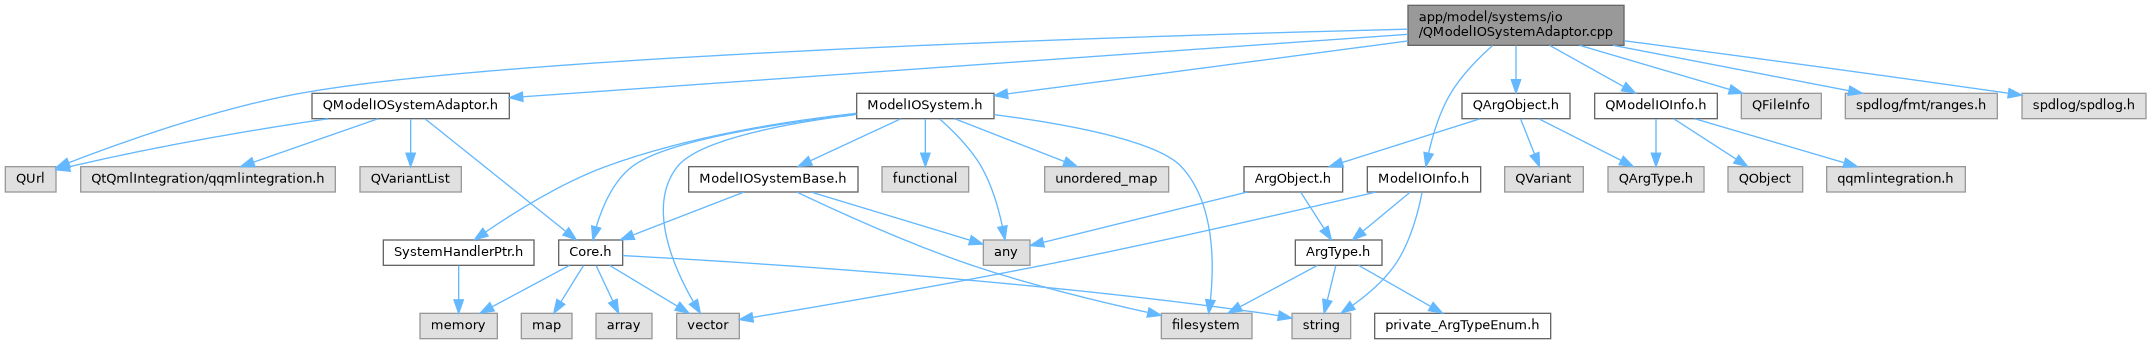
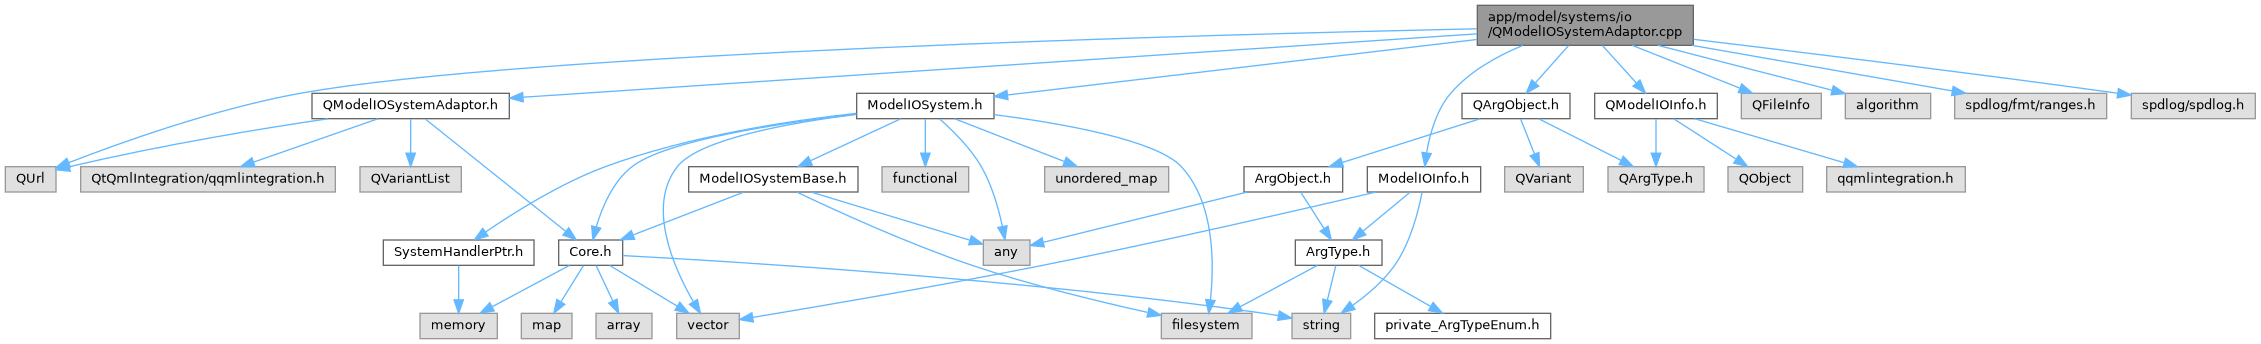
Deploying to gh-pages from @ a-ciue/PreCess@4a4f4f4fb84f4836a4cb694d73c2f9e57257ba9e 🚀

Changed region(s): [[0.0, 0.0, 1.0, 0.9884], [0.1869, 0.1453, 0.3738, 0.2326], [0.2803, 0.2326, 0.3426, 0.2616]]

diff --git a/QModelIOSystemAdaptor_8h_source.html b/QModelIOSystemAdaptor_8h_source.html
@@ -109,28 +109,31 @@ $(function() {
 <div class="line"><a id="l00053" name="l00053"></a><span class="lineno"><a class="line" href="classsystems_1_1io_1_1QModelIOSystemAdaptor.html#a960ba5eb69c3879b5f4e0a6397d67059">   53</a></span>    <span class="keywordtype">void</span> <a class="code hl_signal" href="classsystems_1_1io_1_1QModelIOSystemAdaptor.html#a960ba5eb69c3879b5f4e0a6397d67059">dialogNameFiltersChanged</a>();</div>
 <div class="line"><a id="l00054" name="l00054"></a><span class="lineno">   54</span> </div>
 <div class="line"><a id="l00055" name="l00055"></a><span class="lineno">   55</span>private:</div>
-<div class="line"><a id="l00061" name="l00061"></a><span class="lineno">   61</span>    QString <a class="code hl_function" href="classsystems_1_1io_1_1QModelIOSystemAdaptor.html#ab5e4bc9dea7642544d339bf28b837a66">resolveFileTypeBySuffix</a>(const QString&amp; suffix) const;</div>
-<div class="line"><a id="l00062" name="l00062"></a><span class="lineno">   62</span> </div>
-<div class="line"><a id="l00063" name="l00063"></a><span class="lineno"><a class="line" href="classsystems_1_1io_1_1QModelIOSystemAdaptor.html#a3ea89b9e3f0d4f33bdedbc06904a23b3">   63</a></span>    <a class="code hl_class" href="classsystems_1_1io_1_1ModelIOSystem.html">ModelIOSystem</a>* <a class="code hl_variable" href="classsystems_1_1io_1_1QModelIOSystemAdaptor.html#a3ea89b9e3f0d4f33bdedbc06904a23b3">io_system_</a>; <span class="comment">//&gt; 文件系统的引用</span></div>
-<div class="line"><a id="l00064" name="l00064"></a><span class="lineno">   64</span>};</div>
+<div class="line"><a id="l00065" name="l00065"></a><span class="lineno">   65</span>    QString <a class="code hl_function" href="classsystems_1_1io_1_1QModelIOSystemAdaptor.html#a88ef0138fba2a60ee2ebe85b6c470d9f">resolveFileType</a>(const QString&amp; unique_name, const QUrl&amp; url) const;</div>
+<div class="line"><a id="l00066" name="l00066"></a><span class="lineno">   66</span></div>
+<div class="line"><a id="l00072" name="l00072"></a><span class="lineno">   72</span>    QString <a class="code hl_function" href="classsystems_1_1io_1_1QModelIOSystemAdaptor.html#ab5e4bc9dea7642544d339bf28b837a66">resolveFileTypeBySuffix</a>(const QString&amp; suffix) const;</div>
+<div class="line"><a id="l00073" name="l00073"></a><span class="lineno">   73</span> </div>
+<div class="line"><a id="l00074" name="l00074"></a><span class="lineno"><a class="line" href="classsystems_1_1io_1_1QModelIOSystemAdaptor.html#a3ea89b9e3f0d4f33bdedbc06904a23b3">   74</a></span>    <a class="code hl_class" href="classsystems_1_1io_1_1ModelIOSystem.html">ModelIOSystem</a>* <a class="code hl_variable" href="classsystems_1_1io_1_1QModelIOSystemAdaptor.html#a3ea89b9e3f0d4f33bdedbc06904a23b3">io_system_</a>; <span class="comment">//&gt; 文件系统的引用</span></div>
+<div class="line"><a id="l00075" name="l00075"></a><span class="lineno">   75</span>};</div>
 </div>
-<div class="line"><a id="l00065" name="l00065"></a><span class="lineno">   65</span>}</div>
-<div class="line"><a id="l00066" name="l00066"></a><span class="lineno">   66</span> </div>
-<div class="line"><a id="l00067" name="l00067"></a><span class="lineno">   67</span><span class="preprocessor">#endif</span></div>
+<div class="line"><a id="l00076" name="l00076"></a><span class="lineno">   76</span>}</div>
+<div class="line"><a id="l00077" name="l00077"></a><span class="lineno">   77</span> </div>
+<div class="line"><a id="l00078" name="l00078"></a><span class="lineno">   78</span><span class="preprocessor">#endif</span></div>
 <div class="ttc" id="aCore_8h_html"><div class="ttname"><a href="Core_8h.html">Core.h</a></div></div>
 <div class="ttc" id="aCore_8h_html_a1673229bf7fec9388ac2a829a52d69b3"><div class="ttname"><a href="Core_8h.html#a1673229bf7fec9388ac2a829a52d69b3">Index</a></div><div class="ttdeci">int Index</div><div class="ttdoc">基本索引类型定义</div><div class="ttdef"><b>定义</b> Core.h:48</div></div>
 <div class="ttc" id="aclassQArgObject_html"><div class="ttname"><a href="classQArgObject.html">QArgObject</a></div><div class="ttdoc">QML中使用的参数类型实例对象值，用于参数列表中的model。是对应QArgType描述的参数类型的变量实例，封装了QArgType参数类型和参数值QVariant</div><div class="ttdef"><b>定义</b> QArgObject.h:11</div></div>
 <div class="ttc" id="aclasssystems_1_1io_1_1ModelIOSystem_html"><div class="ttname"><a href="classsystems_1_1io_1_1ModelIOSystem.html">systems::io::ModelIOSystem</a></div><div class="ttdoc">模型IO系统，每种文件格式只能注册一个处理器</div><div class="ttdef"><b>定义</b> ModelIOSystem.h:31</div></div>
 <div class="ttc" id="aclasssystems_1_1io_1_1QModelIOInfo_html"><div class="ttname"><a href="classsystems_1_1io_1_1QModelIOInfo.html">systems::io::QModelIOInfo</a></div><div class="ttdoc">向Qml暴露的受支持的文件类型信息，Qml据此提示用户以文件类型、拓展名</div><div class="ttdef"><b>定义</b> QModelIOInfo.h:13</div></div>
 <div class="ttc" id="aclasssystems_1_1io_1_1QModelIOSystemAdaptor_html_a38abf00440444a743c56ba8eefdeef0d"><div class="ttname"><a href="classsystems_1_1io_1_1QModelIOSystemAdaptor.html#a38abf00440444a743c56ba8eefdeef0d">systems::io::QModelIOSystemAdaptor::dialogNameFilters</a></div><div class="ttdeci">QML_ELEMENTQStringList dialogNameFilters</div><div class="ttdef"><b>定义</b> QModelIOSystemAdaptor.h:21</div></div>
-<div class="ttc" id="aclasssystems_1_1io_1_1QModelIOSystemAdaptor_html_a3ea89b9e3f0d4f33bdedbc06904a23b3"><div class="ttname"><a href="classsystems_1_1io_1_1QModelIOSystemAdaptor.html#a3ea89b9e3f0d4f33bdedbc06904a23b3">systems::io::QModelIOSystemAdaptor::io_system_</a></div><div class="ttdeci">ModelIOSystem * io_system_</div><div class="ttdef"><b>定义</b> QModelIOSystemAdaptor.h:63</div></div>
-<div class="ttc" id="aclasssystems_1_1io_1_1QModelIOSystemAdaptor_html_a639e3e00af91eb3419bd7139a5ca6702"><div class="ttname"><a href="classsystems_1_1io_1_1QModelIOSystemAdaptor.html#a639e3e00af91eb3419bd7139a5ca6702">systems::io::QModelIOSystemAdaptor::read</a></div><div class="ttdeci">Q_INVOKABLE bool read(const QString &amp;unique_name, const QUrl &amp;url, const QVariantList &amp;args)</div><div class="ttdoc">按照给定文件类型，读取指定路径的文件</div><div class="ttdef"><b>定义</b> QModelIOSystemAdaptor.cpp:21</div></div>
-<div class="ttc" id="aclasssystems_1_1io_1_1QModelIOSystemAdaptor_html_a842b3499a2004d3fc3b67143a85364ce"><div class="ttname"><a href="classsystems_1_1io_1_1QModelIOSystemAdaptor.html#a842b3499a2004d3fc3b67143a85364ce">systems::io::QModelIOSystemAdaptor::QModelIOSystemAdaptor</a></div><div class="ttdeci">QModelIOSystemAdaptor(ModelIOSystem &amp;io_system)</div><div class="ttdef"><b>定义</b> QModelIOSystemAdaptor.cpp:13</div></div>
-<div class="ttc" id="aclasssystems_1_1io_1_1QModelIOSystemAdaptor_html_a87026b27812abe6703ab8f822d856b62"><div class="ttname"><a href="classsystems_1_1io_1_1QModelIOSystemAdaptor.html#a87026b27812abe6703ab8f822d856b62">systems::io::QModelIOSystemAdaptor::write</a></div><div class="ttdeci">Q_INVOKABLE bool write(const QString &amp;unique_name, Index model, const QUrl &amp;url, const QVariantList &amp;args)</div><div class="ttdoc">按照给定文件类型，写出指定模型到指定路径的文件</div><div class="ttdef"><b>定义</b> QModelIOSystemAdaptor.cpp:59</div></div>
+<div class="ttc" id="aclasssystems_1_1io_1_1QModelIOSystemAdaptor_html_a3ea89b9e3f0d4f33bdedbc06904a23b3"><div class="ttname"><a href="classsystems_1_1io_1_1QModelIOSystemAdaptor.html#a3ea89b9e3f0d4f33bdedbc06904a23b3">systems::io::QModelIOSystemAdaptor::io_system_</a></div><div class="ttdeci">ModelIOSystem * io_system_</div><div class="ttdef"><b>定义</b> QModelIOSystemAdaptor.h:74</div></div>
+<div class="ttc" id="aclasssystems_1_1io_1_1QModelIOSystemAdaptor_html_a639e3e00af91eb3419bd7139a5ca6702"><div class="ttname"><a href="classsystems_1_1io_1_1QModelIOSystemAdaptor.html#a639e3e00af91eb3419bd7139a5ca6702">systems::io::QModelIOSystemAdaptor::read</a></div><div class="ttdeci">Q_INVOKABLE bool read(const QString &amp;unique_name, const QUrl &amp;url, const QVariantList &amp;args)</div><div class="ttdoc">按照给定文件类型，读取指定路径的文件</div><div class="ttdef"><b>定义</b> QModelIOSystemAdaptor.cpp:22</div></div>
+<div class="ttc" id="aclasssystems_1_1io_1_1QModelIOSystemAdaptor_html_a842b3499a2004d3fc3b67143a85364ce"><div class="ttname"><a href="classsystems_1_1io_1_1QModelIOSystemAdaptor.html#a842b3499a2004d3fc3b67143a85364ce">systems::io::QModelIOSystemAdaptor::QModelIOSystemAdaptor</a></div><div class="ttdeci">QModelIOSystemAdaptor(ModelIOSystem &amp;io_system)</div><div class="ttdef"><b>定义</b> QModelIOSystemAdaptor.cpp:14</div></div>
+<div class="ttc" id="aclasssystems_1_1io_1_1QModelIOSystemAdaptor_html_a87026b27812abe6703ab8f822d856b62"><div class="ttname"><a href="classsystems_1_1io_1_1QModelIOSystemAdaptor.html#a87026b27812abe6703ab8f822d856b62">systems::io::QModelIOSystemAdaptor::write</a></div><div class="ttdeci">Q_INVOKABLE bool write(const QString &amp;unique_name, Index model, const QUrl &amp;url, const QVariantList &amp;args)</div><div class="ttdoc">按照给定文件类型，写出指定模型到指定路径的文件</div><div class="ttdef"><b>定义</b> QModelIOSystemAdaptor.cpp:45</div></div>
+<div class="ttc" id="aclasssystems_1_1io_1_1QModelIOSystemAdaptor_html_a88ef0138fba2a60ee2ebe85b6c470d9f"><div class="ttname"><a href="classsystems_1_1io_1_1QModelIOSystemAdaptor.html#a88ef0138fba2a60ee2ebe85b6c470d9f">systems::io::QModelIOSystemAdaptor::resolveFileType</a></div><div class="ttdeci">QString resolveFileType(const QString &amp;unique_name, const QUrl &amp;url) const</div><div class="ttdoc">解析出实际使用的文件类型注册名：注册名优先，未指定或未知时按文件扩展名回退</div><div class="ttdef"><b>定义</b> QModelIOSystemAdaptor.cpp:114</div></div>
 <div class="ttc" id="aclasssystems_1_1io_1_1QModelIOSystemAdaptor_html_a960ba5eb69c3879b5f4e0a6397d67059"><div class="ttname"><a href="classsystems_1_1io_1_1QModelIOSystemAdaptor.html#a960ba5eb69c3879b5f4e0a6397d67059">systems::io::QModelIOSystemAdaptor::dialogNameFiltersChanged</a></div><div class="ttdeci">void dialogNameFiltersChanged()</div></div>
-<div class="ttc" id="aclasssystems_1_1io_1_1QModelIOSystemAdaptor_html_a9bdb1d03075af65a27f20197daf4f88e"><div class="ttname"><a href="classsystems_1_1io_1_1QModelIOSystemAdaptor.html#a9bdb1d03075af65a27f20197daf4f88e">systems::io::QModelIOSystemAdaptor::getDialogNameFilters</a></div><div class="ttdeci">QStringList getDialogNameFilters() const</div><div class="ttdoc">供文件对话框使用，获取所有支持的文件类型过滤器</div><div class="ttdef"><b>定义</b> QModelIOSystemAdaptor.cpp:119</div></div>
-<div class="ttc" id="aclasssystems_1_1io_1_1QModelIOSystemAdaptor_html_ab5e4bc9dea7642544d339bf28b837a66"><div class="ttname"><a href="classsystems_1_1io_1_1QModelIOSystemAdaptor.html#ab5e4bc9dea7642544d339bf28b837a66">systems::io::QModelIOSystemAdaptor::resolveFileTypeBySuffix</a></div><div class="ttdeci">QString resolveFileTypeBySuffix(const QString &amp;suffix) const</div><div class="ttdoc">按文件扩展名解析出支持该文件类型的注册名</div><div class="ttdef"><b>定义</b> QModelIOSystemAdaptor.cpp:103</div></div>
-<div class="ttc" id="aclasssystems_1_1io_1_1QModelIOSystemAdaptor_html_adc057ee7550640ca63e882b791f892c9"><div class="ttname"><a href="classsystems_1_1io_1_1QModelIOSystemAdaptor.html#adc057ee7550640ca63e882b791f892c9">systems::io::QModelIOSystemAdaptor::getModelIOInfo</a></div><div class="ttdeci">Q_INVOKABLE QList&lt; QModelIOInfo * &gt; getModelIOInfo() const</div><div class="ttdoc">获取所有支持的文件类型信息</div><div class="ttdef"><b>定义</b> QModelIOSystemAdaptor.cpp:74</div></div>
+<div class="ttc" id="aclasssystems_1_1io_1_1QModelIOSystemAdaptor_html_a9bdb1d03075af65a27f20197daf4f88e"><div class="ttname"><a href="classsystems_1_1io_1_1QModelIOSystemAdaptor.html#a9bdb1d03075af65a27f20197daf4f88e">systems::io::QModelIOSystemAdaptor::getDialogNameFilters</a></div><div class="ttdeci">QStringList getDialogNameFilters() const</div><div class="ttdoc">供文件对话框使用，获取所有支持的文件类型过滤器</div><div class="ttdef"><b>定义</b> QModelIOSystemAdaptor.cpp:138</div></div>
+<div class="ttc" id="aclasssystems_1_1io_1_1QModelIOSystemAdaptor_html_ab5e4bc9dea7642544d339bf28b837a66"><div class="ttname"><a href="classsystems_1_1io_1_1QModelIOSystemAdaptor.html#ab5e4bc9dea7642544d339bf28b837a66">systems::io::QModelIOSystemAdaptor::resolveFileTypeBySuffix</a></div><div class="ttdeci">QString resolveFileTypeBySuffix(const QString &amp;suffix) const</div><div class="ttdoc">按文件扩展名解析出支持该文件类型的注册名</div><div class="ttdef"><b>定义</b> QModelIOSystemAdaptor.cpp:98</div></div>
+<div class="ttc" id="aclasssystems_1_1io_1_1QModelIOSystemAdaptor_html_adc057ee7550640ca63e882b791f892c9"><div class="ttname"><a href="classsystems_1_1io_1_1QModelIOSystemAdaptor.html#adc057ee7550640ca63e882b791f892c9">systems::io::QModelIOSystemAdaptor::getModelIOInfo</a></div><div class="ttdeci">Q_INVOKABLE QList&lt; QModelIOInfo * &gt; getModelIOInfo() const</div><div class="ttdoc">获取所有支持的文件类型信息</div><div class="ttdef"><b>定义</b> QModelIOSystemAdaptor.cpp:69</div></div>
 <div class="ttc" id="anamespacesystems_1_1io_html"><div class="ttname"><a href="namespacesystems_1_1io.html">systems::io</a></div><div class="ttdoc">ModelIOSystemRegister.h</div><div class="ttdef"><b>定义</b> QModelManager.h:22</div></div>
 </div><!-- fragment --></div><!-- contents -->
 <!-- start footer part -->

diff --git a/search/all_12.js b/search/all_12.js
@@ -59,32 +59,33 @@ var searchData=
   ['reset_56',['reset',['../classcore_1_1EventBus_1_1Subscription.html#ae26d682d0f1dc0cc4a3688381920e4e6',1,'core::EventBus::Subscription::reset()'],['../classEventBus_1_1Subscription.html#ae26d682d0f1dc0cc4a3688381920e4e6',1,'EventBus::Subscription::reset()']]],
   ['resetcamera_57',['resetCamera',['../structQRenderWindow.html#af54ddc70a59f2482559e7d5ee8bfec6a',1,'QRenderWindow']]],
   ['resolvecomponentid_58',['resolveComponentId',['../classsystems_1_1algo_1_1AlgorithmHandler.html#a928dfca1d10735e8b66e5baf14411398',1,'systems::algo::AlgorithmHandler']]],
-  ['resolvefiletypebysuffix_59',['resolveFileTypeBySuffix',['../classsystems_1_1io_1_1QModelIOSystemAdaptor.html#ab5e4bc9dea7642544d339bf28b837a66',1,'systems::io::QModelIOSystemAdaptor']]],
-  ['resolvegeometryedgelocalid_60',['resolveGeometryEdgeLocalId',['../classQModelQuery.html#a9c09251f3046fb5d85c7c53ce9bce648',1,'QModelQuery']]],
-  ['resolvegeometryfacelocalid_61',['resolveGeometryFaceLocalId',['../classQModelQuery.html#ab22d97753561d0d7c4159ec55499e21b',1,'QModelQuery']]],
-  ['resolvegeometrysolidlocalid_62',['resolveGeometrySolidLocalId',['../classQModelQuery.html#ae144ed5fb627e35452099ea6fc64bca0',1,'QModelQuery']]],
-  ['resolvegeometryvertexlocalid_63',['resolveGeometryVertexLocalId',['../classQModelQuery.html#a2ffbe8584256d316a0ef164017c9282a',1,'QModelQuery']]],
-  ['resolvepickedsolid_64',['resolvePickedSolid',['../classGeometryActorSelectOp.html#a369060c025e32dc66d8ebd43746a575d',1,'GeometryActorSelectOp']]],
-  ['resolvepickedsubshape_65',['resolvePickedSubshape',['../classGeometryActorSelectOp.html#a90f6b6edfcbc1bae86fc960740ad6815',1,'GeometryActorSelectOp']]],
-  ['restorecomponent_66',['restoreComponent',['../classModelLayer.html#aff8a4908ec0503dbbe916846265caaea',1,'ModelLayer']]],
-  ['restorecomponentsnapshot_67',['restoreComponentSnapshot',['../classUndoStack.html#a4e0ed61b7dc08ca8145b6b47746a36ee',1,'UndoStack']]],
-  ['restorefrom_68',['restoreFrom',['../structComponentData.html#a42d32bf161eb9c46bd3f80e8f9252dcb',1,'ComponentData']]],
-  ['restoremodel_69',['restoreModel',['../classModelLayer.html#a37f0073a599232274c966109cacec311',1,'ModelLayer']]],
-  ['restoresnapshot_70',['restoreSnapshot',['../classComponentOperator.html#ac6f99d3fdc52bdf62e32c3dbd153ea9a',1,'ComponentOperator']]],
-  ['reverse_5fiterator_71',['reverse_iterator',['../classsystems_1_1algo_1_1string_1_1reverse__iterator.html',1,'systems::algo::string::reverse_iterator'],['../classsystems_1_1algo_1_1vector_1_1reverse__iterator.html',1,'systems::algo::vector&lt; T &gt;::reverse_iterator'],['../classsystems_1_1edit_1_1string_1_1reverse__iterator.html',1,'systems::edit::string::reverse_iterator'],['../classsystems_1_1edit_1_1vector_1_1reverse__iterator.html',1,'systems::edit::vector&lt; T &gt;::reverse_iterator'],['../classsystems_1_1io_1_1string_1_1reverse__iterator.html',1,'systems::io::string::reverse_iterator'],['../classsystems_1_1io_1_1vector_1_1reverse__iterator.html',1,'systems::io::vector&lt; T &gt;::reverse_iterator']]],
-  ['revertstaged_72',['revertStaged',['../structsystems_1_1feature_1_1UndoContext.html#ae335e9fe558b32d66606859c7d300712',1,'systems::feature::UndoContext::revertStaged'],['../classUndoStack.html#a4459da73ff63f570a8cd145f160ceeff',1,'UndoStack::revertStaged()']]],
-  ['rgb_73',['RGB',['../AttributeCommon_8h.html#a46c8a310cf4c094f8c80e1cb8dc1f911a889574aebacda6bfd3e534e2b49b8028',1,'AttributeCommon.h']]],
-  ['rightclicked_74',['rightClicked',['../structQRenderWindow.html#ad0d60d1889987252b7f0c6612597c780',1,'QRenderWindow']]],
-  ['rolenames_75',['roleNames',['../classTreeModel.html#a99c348b9c26c29b438e19af1aab3f63a',1,'TreeModel']]],
-  ['rootnode_76',['rootNode',['../classTreeModel.html#aac53582cfe69fe0c2e15f7c2217e295d',1,'TreeModel']]],
-  ['rootshape_77',['rootShape',['../structGeometryData.html#a888100380df742104af1f2c0c0619dc2',1,'GeometryData::rootShape'],['../TestComponentModel_8cpp.html#a920b0aa98b2f3617b1a892114b53b863',1,'rootShape:&#160;TestComponentModel.cpp']]],
-  ['roughness_78',['roughness',['../structtinyobj_1_1material__t.html#a7e26f199e4a308bd9fd224349e266cea',1,'tinyobj::material_t']]],
-  ['roughness_5ftexname_79',['roughness_texname',['../structtinyobj_1_1material__t.html#a7d7a7791ad94f2a5eadc2c8ee8c9a902',1,'tinyobj::material_t']]],
-  ['roughness_5ftexopt_80',['roughness_texopt',['../structtinyobj_1_1material__t.html#aa02a56f4de95ab212e19a5d77b1f2d91',1,'tinyobj::material_t']]],
-  ['routekeyevent_81',['routeKeyEvent',['../classsystems_1_1feature_1_1FeatureSystem.html#a5f09d2fbafef0d92ec53329594f17b80',1,'systems::feature::FeatureSystem']]],
-  ['row_5f_82',['row_',['../classEdgeHandle.html#a745941792832f5c4b1a2013790bc2e78',1,'EdgeHandle']]],
-  ['row_5fby_5fendpoints_5f_83',['row_by_endpoints_',['../classMeshAdjacency.html#ad1228a59a7c69530b20d66194670f04d',1,'MeshAdjacency']]],
-  ['row_5fby_5fstable_5fid_5f_84',['row_by_stable_id_',['../classMeshAdjacency.html#a8e5ae81289c9df675db79fe1edaea941',1,'MeshAdjacency']]],
-  ['rowcount_85',['rowCount',['../classTreeModel.html#a6aa892d5029263b35e5b1438b7e18bef',1,'TreeModel']]],
-  ['rows_5f_86',['rows_',['../classMeshAdjacency.html#afe65254353785dc4a0ef9d561e1252e9',1,'MeshAdjacency']]]
+  ['resolvefiletype_59',['resolveFileType',['../classsystems_1_1io_1_1QModelIOSystemAdaptor.html#a88ef0138fba2a60ee2ebe85b6c470d9f',1,'systems::io::QModelIOSystemAdaptor']]],
+  ['resolvefiletypebysuffix_60',['resolveFileTypeBySuffix',['../classsystems_1_1io_1_1QModelIOSystemAdaptor.html#ab5e4bc9dea7642544d339bf28b837a66',1,'systems::io::QModelIOSystemAdaptor']]],
+  ['resolvegeometryedgelocalid_61',['resolveGeometryEdgeLocalId',['../classQModelQuery.html#a9c09251f3046fb5d85c7c53ce9bce648',1,'QModelQuery']]],
+  ['resolvegeometryfacelocalid_62',['resolveGeometryFaceLocalId',['../classQModelQuery.html#ab22d97753561d0d7c4159ec55499e21b',1,'QModelQuery']]],
+  ['resolvegeometrysolidlocalid_63',['resolveGeometrySolidLocalId',['../classQModelQuery.html#ae144ed5fb627e35452099ea6fc64bca0',1,'QModelQuery']]],
+  ['resolvegeometryvertexlocalid_64',['resolveGeometryVertexLocalId',['../classQModelQuery.html#a2ffbe8584256d316a0ef164017c9282a',1,'QModelQuery']]],
+  ['resolvepickedsolid_65',['resolvePickedSolid',['../classGeometryActorSelectOp.html#a369060c025e32dc66d8ebd43746a575d',1,'GeometryActorSelectOp']]],
+  ['resolvepickedsubshape_66',['resolvePickedSubshape',['../classGeometryActorSelectOp.html#a90f6b6edfcbc1bae86fc960740ad6815',1,'GeometryActorSelectOp']]],
+  ['restorecomponent_67',['restoreComponent',['../classModelLayer.html#aff8a4908ec0503dbbe916846265caaea',1,'ModelLayer']]],
+  ['restorecomponentsnapshot_68',['restoreComponentSnapshot',['../classUndoStack.html#a4e0ed61b7dc08ca8145b6b47746a36ee',1,'UndoStack']]],
+  ['restorefrom_69',['restoreFrom',['../structComponentData.html#a42d32bf161eb9c46bd3f80e8f9252dcb',1,'ComponentData']]],
+  ['restoremodel_70',['restoreModel',['../classModelLayer.html#a37f0073a599232274c966109cacec311',1,'ModelLayer']]],
+  ['restoresnapshot_71',['restoreSnapshot',['../classComponentOperator.html#ac6f99d3fdc52bdf62e32c3dbd153ea9a',1,'ComponentOperator']]],
+  ['reverse_5fiterator_72',['reverse_iterator',['../classsystems_1_1algo_1_1string_1_1reverse__iterator.html',1,'systems::algo::string::reverse_iterator'],['../classsystems_1_1algo_1_1vector_1_1reverse__iterator.html',1,'systems::algo::vector&lt; T &gt;::reverse_iterator'],['../classsystems_1_1edit_1_1string_1_1reverse__iterator.html',1,'systems::edit::string::reverse_iterator'],['../classsystems_1_1edit_1_1vector_1_1reverse__iterator.html',1,'systems::edit::vector&lt; T &gt;::reverse_iterator'],['../classsystems_1_1io_1_1string_1_1reverse__iterator.html',1,'systems::io::string::reverse_iterator'],['../classsystems_1_1io_1_1vector_1_1reverse__iterator.html',1,'systems::io::vector&lt; T &gt;::reverse_iterator']]],
+  ['revertstaged_73',['revertStaged',['../structsystems_1_1feature_1_1UndoContext.html#ae335e9fe558b32d66606859c7d300712',1,'systems::feature::UndoContext::revertStaged'],['../classUndoStack.html#a4459da73ff63f570a8cd145f160ceeff',1,'UndoStack::revertStaged()']]],
+  ['rgb_74',['RGB',['../AttributeCommon_8h.html#a46c8a310cf4c094f8c80e1cb8dc1f911a889574aebacda6bfd3e534e2b49b8028',1,'AttributeCommon.h']]],
+  ['rightclicked_75',['rightClicked',['../structQRenderWindow.html#ad0d60d1889987252b7f0c6612597c780',1,'QRenderWindow']]],
+  ['rolenames_76',['roleNames',['../classTreeModel.html#a99c348b9c26c29b438e19af1aab3f63a',1,'TreeModel']]],
+  ['rootnode_77',['rootNode',['../classTreeModel.html#aac53582cfe69fe0c2e15f7c2217e295d',1,'TreeModel']]],
+  ['rootshape_78',['rootShape',['../structGeometryData.html#a888100380df742104af1f2c0c0619dc2',1,'GeometryData::rootShape'],['../TestComponentModel_8cpp.html#a920b0aa98b2f3617b1a892114b53b863',1,'rootShape:&#160;TestComponentModel.cpp']]],
+  ['roughness_79',['roughness',['../structtinyobj_1_1material__t.html#a7e26f199e4a308bd9fd224349e266cea',1,'tinyobj::material_t']]],
+  ['roughness_5ftexname_80',['roughness_texname',['../structtinyobj_1_1material__t.html#a7d7a7791ad94f2a5eadc2c8ee8c9a902',1,'tinyobj::material_t']]],
+  ['roughness_5ftexopt_81',['roughness_texopt',['../structtinyobj_1_1material__t.html#aa02a56f4de95ab212e19a5d77b1f2d91',1,'tinyobj::material_t']]],
+  ['routekeyevent_82',['routeKeyEvent',['../classsystems_1_1feature_1_1FeatureSystem.html#a5f09d2fbafef0d92ec53329594f17b80',1,'systems::feature::FeatureSystem']]],
+  ['row_5f_83',['row_',['../classEdgeHandle.html#a745941792832f5c4b1a2013790bc2e78',1,'EdgeHandle']]],
+  ['row_5fby_5fendpoints_5f_84',['row_by_endpoints_',['../classMeshAdjacency.html#ad1228a59a7c69530b20d66194670f04d',1,'MeshAdjacency']]],
+  ['row_5fby_5fstable_5fid_5f_85',['row_by_stable_id_',['../classMeshAdjacency.html#a8e5ae81289c9df675db79fe1edaea941',1,'MeshAdjacency']]],
+  ['rowcount_86',['rowCount',['../classTreeModel.html#a6aa892d5029263b35e5b1438b7e18bef',1,'TreeModel']]],
+  ['rows_5f_87',['rows_',['../classMeshAdjacency.html#afe65254353785dc4a0ef9d561e1252e9',1,'MeshAdjacency']]]
 ];

diff --git a/search/functions_11.js b/search/functions_11.js
@@ -46,21 +46,22 @@ var searchData=
   ['reset_43',['reset',['../classcore_1_1EventBus_1_1Subscription.html#ae26d682d0f1dc0cc4a3688381920e4e6',1,'core::EventBus::Subscription::reset()'],['../classEventBus_1_1Subscription.html#ae26d682d0f1dc0cc4a3688381920e4e6',1,'EventBus::Subscription::reset()']]],
   ['resetcamera_44',['resetCamera',['../structQRenderWindow.html#af54ddc70a59f2482559e7d5ee8bfec6a',1,'QRenderWindow']]],
   ['resolvecomponentid_45',['resolveComponentId',['../classsystems_1_1algo_1_1AlgorithmHandler.html#a928dfca1d10735e8b66e5baf14411398',1,'systems::algo::AlgorithmHandler']]],
-  ['resolvefiletypebysuffix_46',['resolveFileTypeBySuffix',['../classsystems_1_1io_1_1QModelIOSystemAdaptor.html#ab5e4bc9dea7642544d339bf28b837a66',1,'systems::io::QModelIOSystemAdaptor']]],
-  ['resolvegeometryedgelocalid_47',['resolveGeometryEdgeLocalId',['../classQModelQuery.html#a9c09251f3046fb5d85c7c53ce9bce648',1,'QModelQuery']]],
-  ['resolvegeometryfacelocalid_48',['resolveGeometryFaceLocalId',['../classQModelQuery.html#ab22d97753561d0d7c4159ec55499e21b',1,'QModelQuery']]],
-  ['resolvegeometrysolidlocalid_49',['resolveGeometrySolidLocalId',['../classQModelQuery.html#ae144ed5fb627e35452099ea6fc64bca0',1,'QModelQuery']]],
-  ['resolvegeometryvertexlocalid_50',['resolveGeometryVertexLocalId',['../classQModelQuery.html#a2ffbe8584256d316a0ef164017c9282a',1,'QModelQuery']]],
-  ['resolvepickedsolid_51',['resolvePickedSolid',['../classGeometryActorSelectOp.html#a369060c025e32dc66d8ebd43746a575d',1,'GeometryActorSelectOp']]],
-  ['resolvepickedsubshape_52',['resolvePickedSubshape',['../classGeometryActorSelectOp.html#a90f6b6edfcbc1bae86fc960740ad6815',1,'GeometryActorSelectOp']]],
-  ['restorecomponent_53',['restoreComponent',['../classModelLayer.html#aff8a4908ec0503dbbe916846265caaea',1,'ModelLayer']]],
-  ['restorecomponentsnapshot_54',['restoreComponentSnapshot',['../classUndoStack.html#a4e0ed61b7dc08ca8145b6b47746a36ee',1,'UndoStack']]],
-  ['restorefrom_55',['restoreFrom',['../structComponentData.html#a42d32bf161eb9c46bd3f80e8f9252dcb',1,'ComponentData']]],
-  ['restoremodel_56',['restoreModel',['../classModelLayer.html#a37f0073a599232274c966109cacec311',1,'ModelLayer']]],
-  ['restoresnapshot_57',['restoreSnapshot',['../classComponentOperator.html#ac6f99d3fdc52bdf62e32c3dbd153ea9a',1,'ComponentOperator']]],
-  ['revertstaged_58',['revertStaged',['../classUndoStack.html#a4459da73ff63f570a8cd145f160ceeff',1,'UndoStack']]],
-  ['rightclicked_59',['rightClicked',['../structQRenderWindow.html#ad0d60d1889987252b7f0c6612597c780',1,'QRenderWindow']]],
-  ['rolenames_60',['roleNames',['../classTreeModel.html#a99c348b9c26c29b438e19af1aab3f63a',1,'TreeModel']]],
-  ['routekeyevent_61',['routeKeyEvent',['../classsystems_1_1feature_1_1FeatureSystem.html#a5f09d2fbafef0d92ec53329594f17b80',1,'systems::feature::FeatureSystem']]],
-  ['rowcount_62',['rowCount',['../classTreeModel.html#a6aa892d5029263b35e5b1438b7e18bef',1,'TreeModel']]]
+  ['resolvefiletype_46',['resolveFileType',['../classsystems_1_1io_1_1QModelIOSystemAdaptor.html#a88ef0138fba2a60ee2ebe85b6c470d9f',1,'systems::io::QModelIOSystemAdaptor']]],
+  ['resolvefiletypebysuffix_47',['resolveFileTypeBySuffix',['../classsystems_1_1io_1_1QModelIOSystemAdaptor.html#ab5e4bc9dea7642544d339bf28b837a66',1,'systems::io::QModelIOSystemAdaptor']]],
+  ['resolvegeometryedgelocalid_48',['resolveGeometryEdgeLocalId',['../classQModelQuery.html#a9c09251f3046fb5d85c7c53ce9bce648',1,'QModelQuery']]],
+  ['resolvegeometryfacelocalid_49',['resolveGeometryFaceLocalId',['../classQModelQuery.html#ab22d97753561d0d7c4159ec55499e21b',1,'QModelQuery']]],
+  ['resolvegeometrysolidlocalid_50',['resolveGeometrySolidLocalId',['../classQModelQuery.html#ae144ed5fb627e35452099ea6fc64bca0',1,'QModelQuery']]],
+  ['resolvegeometryvertexlocalid_51',['resolveGeometryVertexLocalId',['../classQModelQuery.html#a2ffbe8584256d316a0ef164017c9282a',1,'QModelQuery']]],
+  ['resolvepickedsolid_52',['resolvePickedSolid',['../classGeometryActorSelectOp.html#a369060c025e32dc66d8ebd43746a575d',1,'GeometryActorSelectOp']]],
+  ['resolvepickedsubshape_53',['resolvePickedSubshape',['../classGeometryActorSelectOp.html#a90f6b6edfcbc1bae86fc960740ad6815',1,'GeometryActorSelectOp']]],
+  ['restorecomponent_54',['restoreComponent',['../classModelLayer.html#aff8a4908ec0503dbbe916846265caaea',1,'ModelLayer']]],
+  ['restorecomponentsnapshot_55',['restoreComponentSnapshot',['../classUndoStack.html#a4e0ed61b7dc08ca8145b6b47746a36ee',1,'UndoStack']]],
+  ['restorefrom_56',['restoreFrom',['../structComponentData.html#a42d32bf161eb9c46bd3f80e8f9252dcb',1,'ComponentData']]],
+  ['restoremodel_57',['restoreModel',['../classModelLayer.html#a37f0073a599232274c966109cacec311',1,'ModelLayer']]],
+  ['restoresnapshot_58',['restoreSnapshot',['../classComponentOperator.html#ac6f99d3fdc52bdf62e32c3dbd153ea9a',1,'ComponentOperator']]],
+  ['revertstaged_59',['revertStaged',['../classUndoStack.html#a4459da73ff63f570a8cd145f160ceeff',1,'UndoStack']]],
+  ['rightclicked_60',['rightClicked',['../structQRenderWindow.html#ad0d60d1889987252b7f0c6612597c780',1,'QRenderWindow']]],
+  ['rolenames_61',['roleNames',['../classTreeModel.html#a99c348b9c26c29b438e19af1aab3f63a',1,'TreeModel']]],
+  ['routekeyevent_62',['routeKeyEvent',['../classsystems_1_1feature_1_1FeatureSystem.html#a5f09d2fbafef0d92ec53329594f17b80',1,'systems::feature::FeatureSystem']]],
+  ['rowcount_63',['rowCount',['../classTreeModel.html#a6aa892d5029263b35e5b1438b7e18bef',1,'TreeModel']]]
 ];

diff --git a/QModelIOSystemAdaptor_8cpp.html b/QModelIOSystemAdaptor_8cpp.html
@@ -86,6 +86,7 @@ $(function() {
 <code>#include &quot;<a class="el" href="QModelIOInfo_8h_source.html">QModelIOInfo.h</a>&quot;</code><br />
 <code>#include &lt;QFileInfo&gt;</code><br />
 <code>#include &lt;QUrl&gt;</code><br />
+<code>#include &lt;algorithm&gt;</code><br />
 <code>#include &lt;spdlog/fmt/ranges.h&gt;</code><br />
 <code>#include &lt;spdlog/spdlog.h&gt;</code><br />
 </div><div class="textblock"><div class="dynheader">
@@ -93,25 +94,27 @@ QModelIOSystemAdaptor.cpp 的引用(Include)关系图:</div>
 <div class="dyncontent">
 <div class="center"><img src="QModelIOSystemAdaptor_8cpp__incl.png" border="0" usemap="#aapp_2model_2systems_2io_2QModelIOSystemAdaptor_8cpp" loading="lazy" alt=""/></div>
 <map name="aapp_2model_2systems_2io_2QModelIOSystemAdaptor_8cpp" id="aapp_2model_2systems_2io_2QModelIOSystemAdaptor_8cpp">
-<area shape="rect" title=" " alt="" coords="1408,5,1624,45"/>
+<area shape="rect" title=" " alt="" coords="1477,5,1693,45"/>
 <area shape="rect" href="QModelIOSystemAdaptor_8h.html" title=" " alt="" coords="312,93,509,119"/>
-<area shape="poly" title=" " alt="" coords="1408,37,523,99,523,94,1407,32"/>
+<area shape="poly" title=" " alt="" coords="1477,37,523,100,523,95,1477,31"/>
 <area shape="rect" title=" " alt="" coords="5,167,56,192"/>
-<area shape="poly" title=" " alt="" coords="1408,32,1156,39,837,52,526,71,398,82,300,96,236,110,173,129,70,165,68,160,171,124,235,105,300,91,397,77,526,65,837,47,1156,34,1408,26"/>
+<area shape="poly" title=" " alt="" coords="1477,31,1212,38,873,51,541,70,404,82,300,96,236,110,173,129,70,165,68,160,171,124,235,105,300,91,404,77,541,64,872,45,1212,33,1477,26"/>
 <area shape="rect" href="ModelIOInfo_8h.html" title=" " alt="" coords="1367,167,1481,192"/>
-<area shape="poly" title=" " alt="" coords="1494,47,1473,69,1453,95,1439,125,1431,154,1426,153,1434,123,1448,92,1469,65,1491,44"/>
+<area shape="poly" title=" " alt="" coords="1524,48,1486,67,1453,95,1437,123,1429,153,1424,152,1432,121,1449,92,1483,63,1522,43"/>
 <area shape="rect" href="ModelIOSystem_8h.html" title=" " alt="" coords="857,93,994,119"/>
-<area shape="poly" title=" " alt="" coords="1408,44,1008,96,1007,91,1407,38"/>
+<area shape="poly" title=" " alt="" coords="1477,42,1008,98,1007,92,1477,37"/>
 <area shape="rect" href="QArgObject_8h.html" title=" " alt="" coords="1462,93,1570,119"/>
-<area shape="poly" title=" " alt="" coords="1519,46,1519,79,1513,79,1513,46"/>
+<area shape="poly" title=" " alt="" coords="1571,47,1538,84,1534,81,1567,44"/>
 <area shape="rect" href="QModelIOInfo_8h.html" title=" " alt="" coords="1595,93,1717,119"/>
-<area shape="poly" title=" " alt="" coords="1551,43,1624,84,1622,89,1548,48"/>
+<area shape="poly" title=" " alt="" coords="1604,44,1638,81,1634,85,1600,47"/>
 <area shape="rect" title=" " alt="" coords="1741,93,1821,119"/>
-<area shape="poly" title=" " alt="" coords="1580,43,1730,87,1729,92,1579,48"/>
-<area shape="rect" title=" " alt="" coords="1845,93,1997,119"/>
-<area shape="poly" title=" " alt="" coords="1614,43,1849,88,1848,93,1613,48"/>
-<area shape="rect" title=" " alt="" coords="2022,93,2146,119"/>
-<area shape="poly" title=" " alt="" coords="1625,38,2008,91,2008,96,1624,43"/>
+<area shape="poly" title=" " alt="" coords="1633,43,1741,86,1739,91,1631,48"/>
+<area shape="rect" title=" " alt="" coords="1845,93,1931,119"/>
+<area shape="poly" title=" " alt="" coords="1658,43,1833,88,1831,93,1657,48"/>
+<area shape="rect" title=" " alt="" coords="1955,93,2107,119"/>
+<area shape="poly" title=" " alt="" coords="1692,43,1952,88,1952,94,1692,48"/>
+<area shape="rect" title=" " alt="" coords="2131,93,2255,119"/>
+<area shape="poly" title=" " alt="" coords="1694,37,2118,91,2117,96,1693,42"/>
 <area shape="rect" href="Core_8h.html" title=" " alt="" coords="559,240,623,265"/>
 <area shape="poly" title=" " alt="" coords="427,117,567,229,564,233,424,121"/>
 <area shape="poly" title=" " alt="" coords="329,121,210,141,70,169,69,164,209,135,328,116"/>

diff --git a/classsystems_1_1io_1_1QModelIOSystemAdaptor.html b/classsystems_1_1io_1_1QModelIOSystemAdaptor.html
@@ -243,6 +243,8 @@ Public 成员函数</h2></td></tr>
 </table><table class="memberdecls">
 <tr class="heading"><td colspan="2"><h2 id="header-pri-methods" class="groupheader"><a id="pri-methods" name="pri-methods"></a>
 Private 成员函数</h2></td></tr>
+<tr class="memitem:a88ef0138fba2a60ee2ebe85b6c470d9f" id="r_a88ef0138fba2a60ee2ebe85b6c470d9f"><td class="memItemLeft" align="right" valign="top">QString&#160;</td><td class="memItemRight" valign="bottom"><a class="el" href="#a88ef0138fba2a60ee2ebe85b6c470d9f">resolveFileType</a> (const QString &amp;unique_name, const QUrl &amp;url) const</td></tr>
+<tr class="memdesc:a88ef0138fba2a60ee2ebe85b6c470d9f"><td class="mdescLeft">&#160;</td><td class="mdescRight">解析出实际使用的文件类型注册名：注册名优先，未指定或未知时按文件扩展名回退  <br /></td></tr>
 <tr class="memitem:ab5e4bc9dea7642544d339bf28b837a66" id="r_ab5e4bc9dea7642544d339bf28b837a66"><td class="memItemLeft" align="right" valign="top">QString&#160;</td><td class="memItemRight" valign="bottom"><a class="el" href="#ab5e4bc9dea7642544d339bf28b837a66">resolveFileTypeBySuffix</a> (const QString &amp;suffix) const</td></tr>
 <tr class="memdesc:ab5e4bc9dea7642544d339bf28b837a66"><td class="mdescLeft">&#160;</td><td class="mdescRight">按文件扩展名解析出支持该文件类型的注册名  <br /></td></tr>
 </table><table class="memberdecls">
@@ -370,6 +372,45 @@ Private 属性</h2></td></tr>
   </dd>
 </dl>
 <dl class="section return"><dt>返回</dt><dd>是否读取成功 </dd></dl>
+
+</div>
+</div>
+<a id="a88ef0138fba2a60ee2ebe85b6c470d9f" name="a88ef0138fba2a60ee2ebe85b6c470d9f"></a>
+<h2 class="memtitle"><span class="permalink"><a href="#a88ef0138fba2a60ee2ebe85b6c470d9f">&#9670;&#160;</a></span>resolveFileType()</h2>
+
+<div class="memitem">
+<div class="memproto">
+<table class="mlabels">
+  <tr>
+  <td class="mlabels-left">
+      <table class="memname">
+        <tr>
+          <td class="memname">QString QModelIOSystemAdaptor::resolveFileType </td>
+          <td>(</td>
+          <td class="paramtype">const QString &amp;</td>          <td class="paramname"><span class="paramname"><em>unique_name</em></span>, </td>
+        </tr>
+        <tr>
+          <td class="paramkey"></td>
+          <td></td>
+          <td class="paramtype">const QUrl &amp;</td>          <td class="paramname"><span class="paramname"><em>url</em></span>&#160;) const</td>
+        </tr>
+      </table>
+  </td>
+  <td class="mlabels-right">
+<span class="mlabels"><span class="mlabel private">private</span></span>  </td>
+  </tr>
+</table>
+</div><div class="memdoc">
+
+<p>解析出实际使用的文件类型注册名：注册名优先，未指定或未知时按文件扩展名回退 </p>
+<p>界面文件对话框传入的是过滤器名，它未必等于注册名：用户选中默认项时是 "All files"， 名字本身也可能与注册名不一致。读写两侧共用本函数，保证解析规则一致。 </p><dl class="params"><dt>参数</dt><dd>
+  <table class="params">
+    <tr><td class="paramname">unique_name</td><td>界面传入的文件类型名，允许未注册 </td></tr>
+    <tr><td class="paramname">url</td><td>目标文件 URL，回退时按其扩展名匹配（导出时不要求文件已存在） </td></tr>
+  </table>
+  </dd>
+</dl>
+<dl class="section return"><dt>返回</dt><dd>已注册的文件类型唯一名称，无法解析时返回空串 </dd></dl>
 
 </div>
 </div>

diff --git a/classsystems_1_1io_1_1QModelIOSystemAdaptor-members.html b/classsystems_1_1io_1_1QModelIOSystemAdaptor-members.html
@@ -89,8 +89,9 @@ $(function() {
   <tr class="even"><td class="entry"><a class="el" href="classsystems_1_1io_1_1QModelIOSystemAdaptor.html#a3ea89b9e3f0d4f33bdedbc06904a23b3">io_system_</a></td><td class="entry"><a class="el" href="classsystems_1_1io_1_1QModelIOSystemAdaptor.html">systems::io::QModelIOSystemAdaptor</a></td><td class="entry"><span class="mlabel">private</span></td></tr>
   <tr class="odd"><td class="entry"><a class="el" href="classsystems_1_1io_1_1QModelIOSystemAdaptor.html#a842b3499a2004d3fc3b67143a85364ce">QModelIOSystemAdaptor</a>(ModelIOSystem &amp;io_system)</td><td class="entry"><a class="el" href="classsystems_1_1io_1_1QModelIOSystemAdaptor.html">systems::io::QModelIOSystemAdaptor</a></td><td class="entry"></td></tr>
   <tr class="even"><td class="entry"><a class="el" href="classsystems_1_1io_1_1QModelIOSystemAdaptor.html#a639e3e00af91eb3419bd7139a5ca6702">read</a>(const QString &amp;unique_name, const QUrl &amp;url, const QVariantList &amp;args)</td><td class="entry"><a class="el" href="classsystems_1_1io_1_1QModelIOSystemAdaptor.html">systems::io::QModelIOSystemAdaptor</a></td><td class="entry"></td></tr>
-  <tr class="odd"><td class="entry"><a class="el" href="classsystems_1_1io_1_1QModelIOSystemAdaptor.html#ab5e4bc9dea7642544d339bf28b837a66">resolveFileTypeBySuffix</a>(const QString &amp;suffix) const</td><td class="entry"><a class="el" href="classsystems_1_1io_1_1QModelIOSystemAdaptor.html">systems::io::QModelIOSystemAdaptor</a></td><td class="entry"><span class="mlabel">private</span></td></tr>
-  <tr class="even"><td class="entry"><a class="el" href="classsystems_1_1io_1_1QModelIOSystemAdaptor.html#a87026b27812abe6703ab8f822d856b62">write</a>(const QString &amp;unique_name, Index model, const QUrl &amp;url, const QVariantList &amp;args)</td><td class="entry"><a class="el" href="classsystems_1_1io_1_1QModelIOSystemAdaptor.html">systems::io::QModelIOSystemAdaptor</a></td><td class="entry"></td></tr>
+  <tr class="odd"><td class="entry"><a class="el" href="classsystems_1_1io_1_1QModelIOSystemAdaptor.html#a88ef0138fba2a60ee2ebe85b6c470d9f">resolveFileType</a>(const QString &amp;unique_name, const QUrl &amp;url) const</td><td class="entry"><a class="el" href="classsystems_1_1io_1_1QModelIOSystemAdaptor.html">systems::io::QModelIOSystemAdaptor</a></td><td class="entry"><span class="mlabel">private</span></td></tr>
+  <tr class="even"><td class="entry"><a class="el" href="classsystems_1_1io_1_1QModelIOSystemAdaptor.html#ab5e4bc9dea7642544d339bf28b837a66">resolveFileTypeBySuffix</a>(const QString &amp;suffix) const</td><td class="entry"><a class="el" href="classsystems_1_1io_1_1QModelIOSystemAdaptor.html">systems::io::QModelIOSystemAdaptor</a></td><td class="entry"><span class="mlabel">private</span></td></tr>
+  <tr class="odd"><td class="entry"><a class="el" href="classsystems_1_1io_1_1QModelIOSystemAdaptor.html#a87026b27812abe6703ab8f822d856b62">write</a>(const QString &amp;unique_name, Index model, const QUrl &amp;url, const QVariantList &amp;args)</td><td class="entry"><a class="el" href="classsystems_1_1io_1_1QModelIOSystemAdaptor.html">systems::io::QModelIOSystemAdaptor</a></td><td class="entry"></td></tr>
 </table></div><!-- contents -->
 <!-- start footer part -->
 <hr class="footer"/><address class="footer"><small>

diff --git a/ModelIOSystem_8h_source.html b/ModelIOSystem_8h_source.html
@@ -97,7 +97,7 @@ $(function() {
 <div class="line"><a id="l00019" name="l00019"></a><span class="lineno">   19</span><span class="keyword">struct </span><a class="code hl_struct" href="structsystems_1_1io_1_1ModelIOInfo.html">ModelIOInfo</a>;</div>
 <div class="foldopen" id="foldopen00023" data-start="{" data-end="};">
 <div class="line"><a id="l00023" name="l00023"></a><span class="lineno"><a class="line" href="structsystems_1_1io_1_1HandlerMetaData.html">   23</a></span><span class="keyword">struct </span><a class="code hl_struct" href="structsystems_1_1io_1_1HandlerMetaData.html">HandlerMetaData</a> {</div>
-<div class="line"><a id="l00024" name="l00024"></a><span class="lineno"><a class="line" href="structsystems_1_1io_1_1HandlerMetaData.html#a0fd2bd481588605b64368f0b2f012b06">   24</a></span>    std::string <a class="code hl_variable" href="structsystems_1_1io_1_1HandlerMetaData.html#a0fd2bd481588605b64368f0b2f012b06">file_type</a>; <span class="comment">//&gt; 处理的文件格式，取Wikipedia上对应模型类型词条名称，如&quot;Wavefront .obj file&quot;, &quot;ISO 10303-21&quot;, &quot;STL (file format)&quot;</span></div>
+<div class="line"><a id="l00024" name="l00024"></a><span class="lineno"><a class="line" href="structsystems_1_1io_1_1HandlerMetaData.html#a0fd2bd481588605b64368f0b2f012b06">   24</a></span>    std::string <a class="code hl_variable" href="structsystems_1_1io_1_1HandlerMetaData.html#a0fd2bd481588605b64368f0b2f012b06">file_type</a>; <span class="comment">//&gt; 处理的文件格式，取Wikipedia上对应模型类型词条名称，如&quot;Wavefront .obj file&quot;, &quot;ISO 10303-21&quot;；名称不得含圆括号（Qt 会按第一个&#39;(&#39;截断文件对话框过滤器名），如&quot;OFF (file format)&quot;须写作&quot;OFF file format&quot;</span></div>
 <div class="line"><a id="l00025" name="l00025"></a><span class="lineno"><a class="line" href="structsystems_1_1io_1_1HandlerMetaData.html#ac554766178cbfdc5d5d45ffc807bf144">   25</a></span>    std::vector&lt;std::string&gt; <a class="code hl_variable" href="structsystems_1_1io_1_1HandlerMetaData.html#ac554766178cbfdc5d5d45ffc807bf144">extensions</a>; <span class="comment">//&gt; 支持的文件扩展名列表，如[&quot;txt&quot;, &quot;obj&quot;]</span></div>
 <div class="line"><a id="l00026" name="l00026"></a><span class="lineno">   26</span>};</div>
 </div>

diff --git a/functions_func_r.html b/functions_func_r.html
@@ -120,6 +120,7 @@ $(function() {
 <li>reset()&#160;:&#160;<a class="el" href="classcore_1_1EventBus_1_1Subscription.html#ae26d682d0f1dc0cc4a3688381920e4e6">core::EventBus::Subscription</a>, <a class="el" href="classEventBus_1_1Subscription.html#ae26d682d0f1dc0cc4a3688381920e4e6">EventBus::Subscription</a></li>
 <li>resetCamera()&#160;:&#160;<a class="el" href="structQRenderWindow.html#af54ddc70a59f2482559e7d5ee8bfec6a">QRenderWindow</a></li>
 <li>resolveComponentId()&#160;:&#160;<a class="el" href="classsystems_1_1algo_1_1AlgorithmHandler.html#a928dfca1d10735e8b66e5baf14411398">systems::algo::AlgorithmHandler</a></li>
+<li>resolveFileType()&#160;:&#160;<a class="el" href="classsystems_1_1io_1_1QModelIOSystemAdaptor.html#a88ef0138fba2a60ee2ebe85b6c470d9f">systems::io::QModelIOSystemAdaptor</a></li>
 <li>resolveFileTypeBySuffix()&#160;:&#160;<a class="el" href="classsystems_1_1io_1_1QModelIOSystemAdaptor.html#ab5e4bc9dea7642544d339bf28b837a66">systems::io::QModelIOSystemAdaptor</a></li>
 <li>resolveGeometryEdgeLocalId()&#160;:&#160;<a class="el" href="classQModelQuery.html#a9c09251f3046fb5d85c7c53ce9bce648">QModelQuery</a></li>
 <li>resolveGeometryFaceLocalId()&#160;:&#160;<a class="el" href="classQModelQuery.html#ab22d97753561d0d7c4159ec55499e21b">QModelQuery</a></li>

diff --git a/functions_r.html b/functions_r.html
@@ -132,6 +132,7 @@ $(function() {
 <li>reset()&#160;:&#160;<a class="el" href="classcore_1_1EventBus_1_1Subscription.html#ae26d682d0f1dc0cc4a3688381920e4e6">core::EventBus::Subscription</a>, <a class="el" href="classEventBus_1_1Subscription.html#ae26d682d0f1dc0cc4a3688381920e4e6">EventBus::Subscription</a></li>
 <li>resetCamera()&#160;:&#160;<a class="el" href="structQRenderWindow.html#af54ddc70a59f2482559e7d5ee8bfec6a">QRenderWindow</a></li>
 <li>resolveComponentId()&#160;:&#160;<a class="el" href="classsystems_1_1algo_1_1AlgorithmHandler.html#a928dfca1d10735e8b66e5baf14411398">systems::algo::AlgorithmHandler</a></li>
+<li>resolveFileType()&#160;:&#160;<a class="el" href="classsystems_1_1io_1_1QModelIOSystemAdaptor.html#a88ef0138fba2a60ee2ebe85b6c470d9f">systems::io::QModelIOSystemAdaptor</a></li>
 <li>resolveFileTypeBySuffix()&#160;:&#160;<a class="el" href="classsystems_1_1io_1_1QModelIOSystemAdaptor.html#ab5e4bc9dea7642544d339bf28b837a66">systems::io::QModelIOSystemAdaptor</a></li>
 <li>resolveGeometryEdgeLocalId()&#160;:&#160;<a class="el" href="classQModelQuery.html#a9c09251f3046fb5d85c7c53ce9bce648">QModelQuery</a></li>
 <li>resolveGeometryFaceLocalId()&#160;:&#160;<a class="el" href="classQModelQuery.html#ab22d97753561d0d7c4159ec55499e21b">QModelQuery</a></li>

diff --git a/doxygen_crawl.html b/doxygen_crawl.html
@@ -2155,6 +2155,7 @@
 <a href="classsystems_1_1io_1_1QModelIOSystemAdaptor.html#a639e3e00af91eb3419bd7139a5ca6702"/>
 <a href="classsystems_1_1io_1_1QModelIOSystemAdaptor.html#a842b3499a2004d3fc3b67143a85364ce"/>
 <a href="classsystems_1_1io_1_1QModelIOSystemAdaptor.html#a87026b27812abe6703ab8f822d856b62"/>
+<a href="classsystems_1_1io_1_1QModelIOSystemAdaptor.html#a88ef0138fba2a60ee2ebe85b6c470d9f"/>
 <a href="classsystems_1_1io_1_1QModelIOSystemAdaptor.html#a960ba5eb69c3879b5f4e0a6397d67059"/>
 <a href="classsystems_1_1io_1_1QModelIOSystemAdaptor.html#a9bdb1d03075af65a27f20197daf4f88e"/>
 <a href="classsystems_1_1io_1_1QModelIOSystemAdaptor.html#ab5e4bc9dea7642544d339bf28b837a66"/>
